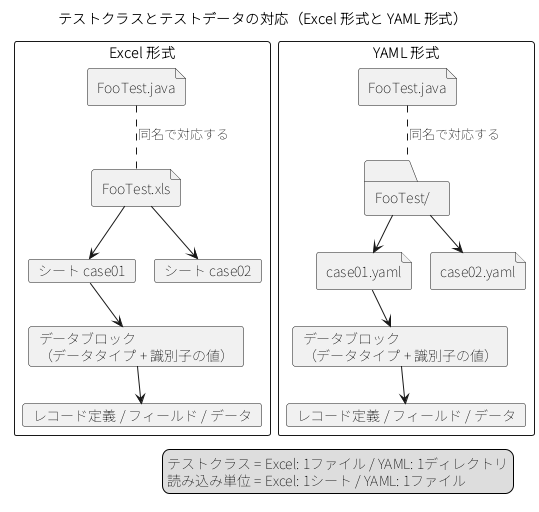
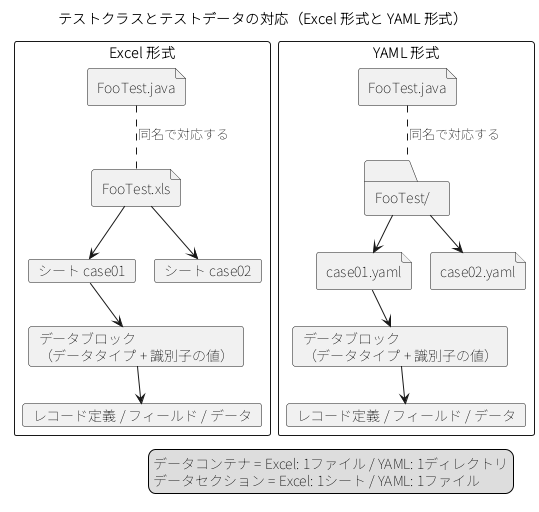
用語: 読み込み単位→データセクション、テストクラスに対応するファイル／ディレクトリ→データコンテナ。〈テストデータの書き方〉冒頭で3階層を定義し、各所の形式別の括弧書きを削除

Changed region(s): [[0.2672, 0.875, 0.6234, 0.9688], [0.6827, 0.9062, 0.8905, 0.9688]]

diff --git a/ja/development_tools/testing_framework/implementation/testdata_notation.rst b/ja/development_tools/testing_framework/implementation/testdata_notation.rst
@@ -17,7 +17,31 @@
 
 テストデータの構造
 --------------------------------------------------
-テストデータは、テストクラス・読み込み単位・データブロックという階層で構成する。ここでは、テストクラスとテストデータの対応、読み込み単位の中に共存するデータブロックとその用途を示すデータタイプ、同じデータタイプのデータブロックを複数置く場合に使うグループIDについて説明する。
+テストデータは、データコンテナ・データセクション・データブロックという階層で構成する。
+
+.. list-table::
+  :class: white-space-normal
+  :header-rows: 1
+  :widths: 16,40,22,22
+
+  * - 階層
+    - 意味
+    - Excel形式
+    - YAML形式
+  * - データコンテナ
+    - テストクラス1つ分のテストデータ全体。テストクラスと同じ名前にする
+    - 1つのExcelファイル
+    - 1つのディレクトリ
+  * - データセクション
+    - 分割して読み込む単位。テストコードからは名前で指定する
+    - 1シート。名前はシート名
+    - 1つのYAMLファイル。名前は拡張子を除いたファイル名
+  * - データブロック
+    - 1用途分のデータのまとまり。データタイプと識別子の値で識別する
+    - データタイプで始まる矩形範囲
+    - トップレベルキーの下の1エントリ
+
+ここでは、テストクラスとテストデータの対応、データセクションの中に共存するデータブロックとその用途を示すデータタイプ、同じデータタイプのデータブロックを複数置く場合に使うグループIDについて説明する。
 
 .. _testdata_notation-file_structure:
 
@@ -25,7 +49,7 @@
 ~~~~~~~~~~~~~~~~~~~~~~~~~~~~~~~~~~~~~~~~~~~~~~~~~
 データベースへの準備データやデータベース検索結果の比較などをJavaのソースコードで表現するよりも、表形式で記述したほうが可読性・編集のしやすさの点で有利であるため、テスティングフレームワークはこれらのデータをテストコードとは別のファイル（Excelファイルまたは\ YAML\ ファイル）に記述する方式を採用している。
 
-テストデータは、テストクラスと1対1で対応する。ファイルの配置と読み込み単位の対応は形式によって異なるため、\ Excel\ 形式と\ YAML\ 形式のそれぞれについて後述する。
+データコンテナは、テストクラスと1対1で対応する。ファイルの配置とデータコンテナ・データセクションの対応は形式によって異なるため、\ Excel\ 形式と\ YAML\ 形式のそれぞれについて後述する。
 
 .. image:: images/testdata_notation/testdata_layout.png
   :scale: 100
@@ -44,7 +68,7 @@
 
 .. rubric:: Excel形式の場合
 
-同名の1つのExcelファイル（\ ``.xls``\ または\ ``.xlsx``\ ）がテストクラスに対応し、1シートが読み込み単位に対応する。
+テストクラスと同名の1つのExcelファイル（\ ``.xls``\ または\ ``.xlsx``\ ）がデータコンテナに、1シートがデータセクションに対応する。
 
 ファイルは、テストコードと同じディレクトリに、テストコードと同じ名前にし、拡張子だけを変えて配置することを推奨する。テストクラス側でディレクトリ名やファイル名を明示的に指定しなくてもテストデータを読み込めるようにするためである。
 
@@ -77,7 +101,7 @@ Excelのセルの書式は、必ず文字列書式に統一しておく必要が
 
 .. rubric:: YAML形式の場合
 
-同名の1つのディレクトリがテストクラスに対応し、1つのYAMLファイルが読み込み単位に対応する。
+テストクラスと同名の1つのディレクトリがデータコンテナに、1つのYAMLファイルがデータセクションに対応する。
 
 YAMLファイルは\ YAML 1.2\ に準拠する。\ YAML 1.1\ との主な違いとして、\ ``yes``\ ・\ ``no``\ ・\ ``on``\ ・\ ``off``\ は真偽値ではなく文字列として扱われる点に注意する。\ YAML\ テストデータには\ JSON Schema\ が定義されており、\ ``nablarch-testing-yaml``\ の\ jar\ に ``nablarch/test/ntf-testdata-yaml-schema.json`` として同梱されている。パース時には、このスキーマでの検証が行われる。
 
@@ -91,7 +115,7 @@ YAMLファイルでは、\ ``rows:``\ 内の全てのデータ値を必ずダブ
 
 データブロックとデータタイプ
 ~~~~~~~~~~~~~~~~~~~~~~~~~~~~~~~~~~~~~~~~~~~~~~~~~
-1つの読み込み単位（\ Excel\ の1シート、\ YAML\ の1ファイル）の中には、テストショット・準備データ・期待値という3つの用途のデータが、データブロック単位で共存する。
+1つのデータセクションの中には、テストショット・準備データ・期待値という3つの用途のデータが、データブロック単位で共存する。
 
 .. list-table::
   :class: white-space-normal
@@ -111,7 +135,7 @@ YAMLファイルでは、\ ``rows:``\ 内の全てのデータ値を必ずダブ
     - テスト実行後に確認する状態（データベース・出力ファイル・電文・検索結果など）
     - ``EXPECTED_*``\ ・\ ``RESPONSE_*``\ など
 
-テストクラス1つ分のデータが読み込み単位に分かれ、その中に複数のデータブロックが共存するという格納階層は、\ :ref:`テストクラスとテストデータの対応 <testdata_notation-file_structure>`\ の図のとおりである。
+データコンテナがデータセクションに分かれ、その中に複数のデータブロックが共存するという格納階層は、\ :ref:`テストクラスとテストデータの対応 <testdata_notation-file_structure>`\ の図のとおりである。
 
 データタイプは、データブロックの用途を示す予約語であり、解析の起点になる。データタイプを軸に、グループID・テストショット一覧・ファイルデータ・メッセージングの各記法が結び付く。セル値やエントリ値の解釈規則のうち、特殊記法とコメントは全データタイプに横断的にかかり、マーカーカラムはカラム名の行を持つデータタイプ（テーブルデータと\ ``LIST_MAP``\ ）にかかる。
 
@@ -240,7 +264,7 @@ YAMLファイルでは、\ ``rows:``\ 内の全てのデータ値を必ずダブ
 
 グループIDによる使い分け
 ~~~~~~~~~~~~~~~~~~~~~~~~~~~~~~~~~~~~~~~~~~~~~~~~~
-同じ読み込み単位の中に、同じデータタイプのデータブロックを複数記述したい場合は、グループIDでそれらを区別する。テストショット一覧の各カラムでグループIDを参照することで、テストショットごとに異なる準備データ・期待値を使い分けられる。
+同じデータセクションの中に、同じデータタイプのデータブロックを複数記述したい場合は、グループIDでそれらを区別する。テストショット一覧の各カラムでグループIDを参照することで、テストショットごとに異なる準備データ・期待値を使い分けられる。
 
 グループIDの指定には、次の規則がある。
 
@@ -379,7 +403,7 @@ testShots本体を記述する
   * - ``no``
     - テストショット番号を1からの連番で記載する。空の場合はエラーになる
   * - ``description``
-    - そのテストショットの説明を記載する（旧名 ``case``\ も可）。両方とも未定義の場合はエラーになる。ウェブアプリケーションのリクエスト単体テストでは、出力される\ HTML\ ダンプのファイル名にも使用される。ファイル名は\ ``<読み込み単位の名前>_Shot<テストショット番号>_<descriptionの値>.html``\ である。ファイル名に使えない文字（改行や\ ``/``\ など）を含めたり、OSのファイル名の長さ上限を超えたりすると、テスト実行時に\ ``IOException``\ が発生する
+    - そのテストショットの説明を記載する（旧名 ``case``\ も可）。両方とも未定義の場合はエラーになる。ウェブアプリケーションのリクエスト単体テストでは、出力される\ HTML\ ダンプのファイル名にも使用される。ファイル名は\ ``<データセクション名>_Shot<テストショット番号>_<descriptionの値>.html``\ である。ファイル名に使えない文字（改行や\ ``/``\ など）を含めたり、OSのファイル名の長さ上限を超えたりすると、テスト実行時に\ ``IOException``\ が発生する
   * - ``expectedStatusCode``
     - 期待するステータスコードを記載する（ウェブアプリケーションでは\ HTTP\ ステータスコード）
 
@@ -436,7 +460,7 @@ testShots本体を記述する
 
 * リクエストパラメータは、\ ``requestParams``\ という\ ID\ の ``LIST_MAP``\ に記述する
 
-  ``requestParams``\ は ``testShots``\ のカラムではなく、読み込み単位内に置く予約\ ID\ を持つ ``LIST_MAP``\ である。送信する\ HTTP\ リクエストパラメータを、テストショット一覧と行単位で対応させて記載する。テストショット一覧の先頭行のテストショットには、リクエストパラメータ表の先頭行のデータが対応するというように、行の順序で結び付く。テストショットとの対応が分かりやすいよう、テストショット番号をマーカーカラム（後述）として記載するとよい。リクエストパラメータは必ず記載する必要がある。初期画面表示のリクエストなど、リクエストパラメータが存在しない場合でも、\ ``LIST_MAP=requestParams``\ には、テストショット番号の列だけを記載した列を用意し、テストショット数分の行を用意する。
+  ``requestParams``\ は ``testShots``\ のカラムではなく、データセクション内に置く予約\ ID\ を持つ ``LIST_MAP``\ である。送信する\ HTTP\ リクエストパラメータを、テストショット一覧と行単位で対応させて記載する。テストショット一覧の先頭行のテストショットには、リクエストパラメータ表の先頭行のデータが対応するというように、行の順序で結び付く。テストショットとの対応が分かりやすいよう、テストショット番号をマーカーカラム（後述）として記載するとよい。リクエストパラメータは必ず記載する必要がある。初期画面表示のリクエストなど、リクエストパラメータが存在しない場合でも、\ ``LIST_MAP=requestParams``\ には、テストショット番号の列だけを記載した列を用意し、テストショット数分の行を用意する。
 
 * 1つのキーに複数の値を送信する場合は、値をカンマ区切りで記述する
 
@@ -585,7 +609,7 @@ LIST_MAPのデータを記述する
 
 ここで扱うのは\ ``LIST_MAP``\ 自体の記法であり、取得方法と\ ID\ の解決規則を説明したうえで、\ Excel\ 形式・\ YAML\ 形式それぞれの書式を示す。このデータタイプを使うデータブロックのうち、テストショット一覧（\ ``testShots``\ ）のカラムについては、前述の\ :ref:`テストショット一覧（testShots）を記述する <testdata_notation-test_shots>`\ で処理方式ごとに説明している。
 
-以下のメソッドにより、読み込み単位の名前（\ Excel\ 形式ではシート名、\ YAML\ 形式ではファイル名）と\ ID\ を指定して\ List\ 形式または\ Map\ 形式でデータを取得できる。
+以下のメソッドにより、データセクション名と\ ID\ を指定して\ List\ 形式または\ Map\ 形式でデータを取得できる。
 
 - ``TestSupport#getListMap(String sheetName, String id)``
 - ``DbAccessTestSupport#getListMap(String sheetName, String id)``
@@ -618,7 +642,7 @@ LIST_MAPのデータを記述する
   second.put("expected", "鈴木一郎");
   list.add(second);
 
-``LIST_MAP``\ のID\ は完全一致で検索される。同一の読み込み単位内に同じ\ ID\ のデータブロックが複数ある場合は先着一致となり、2件目以降は無視される。この\ ID\ 解決規則は、\ ThreadContext\ に設定する値やログ検証データなど、\ ``testShots``\ 以外の用途でも共通である。例えば、\ ``ThreadContext``\ に設定する値（\ ``USER_ID``\ ・\ ``REQUEST_ID``\ ・\ ``LANG``\ など）や、期待するユーザ情報（漢字氏名・カナ氏名・メールアドレスなど）を保持する用途にも、同じ ``LIST_MAP``\ の書式を使う。
+``LIST_MAP``\ のID\ は完全一致で検索される。同一のデータセクション内に同じ\ ID\ のデータブロックが複数ある場合は先着一致となり、2件目以降は無視される。この\ ID\ 解決規則は、\ ThreadContext\ に設定する値やログ検証データなど、\ ``testShots``\ 以外の用途でも共通である。例えば、\ ``ThreadContext``\ に設定する値（\ ``USER_ID``\ ・\ ``REQUEST_ID``\ ・\ ``LANG``\ など）や、期待するユーザ情報（漢字氏名・カナ氏名・メールアドレスなど）を保持する用途にも、同じ ``LIST_MAP``\ の書式を使う。
 
 実際の記述例は :ref:`LIST_MAPのデータを記述する <testdata_examples-list_map>` を参照。
 
@@ -666,9 +690,9 @@ LIST_MAPのデータを記述する
 
 共通の準備データをまとめる
 ^^^^^^^^^^^^^^^^^^^^^^^^^^^^^^^^^^^^^^^^^^^^^^^^^
-テストクラス全体で共通する準備データは、\ ``setUpDb``\ という名前の読み込み単位（\ Excel\ 形式では ``setUpDb`` という名前のシート、\ YAML\ 形式ではテストクラスに対応するディレクトリ配下の ``setUpDb.yaml`` というファイル）にまとめて記載する。ここに記載した ``SETUP_TABLE`` は、テストメソッドの実行ごとに1回、最初のテストショットを実行する前に投入される。\ Nablarch\ バッチアプリケーション・メッセージングでは、テストを実行するメソッドの第2引数に\ ``true``\ を指定すると、テストショットごとに投入し直すこともできる。1つの読み込み単位に複数の ``SETUP_TABLE`` を記述することもでき、実行時にはその読み込み単位内の全ての ``SETUP_TABLE`` が登録対象になる。
+テストクラス全体で共通する準備データは、\ ``setUpDb``\ という名前のデータセクションにまとめて記載する。ここに記載した ``SETUP_TABLE`` は、テストメソッドの実行ごとに1回、最初のテストショットを実行する前に投入される。\ Nablarch\ バッチアプリケーション・メッセージングでは、テストを実行するメソッドの第2引数に\ ``true``\ を指定すると、テストショットごとに投入し直すこともできる。1つのデータセクションに複数の ``SETUP_TABLE`` を記述することもでき、実行時にはそのデータセクション内の全ての ``SETUP_TABLE`` が登録対象になる。
 
-テストショットごとに異なる準備データは、\ ``setUpDb``\ ではなくテストメソッドの読み込み単位に ``SETUP_TABLE`` を記述し、テストショット一覧の ``setUpTable`` カラムでそのグループIDを指定する（\ :ref:`グループIDによる使い分け <testdata_notation-group_id>`\ 参照）。こちらは、\ ``setUpDb``\ の投入後にテストショットごとに投入される。\ ``SETUP_TABLE``\ は対象テーブルを全件\ DELETE\ してから\ INSERT\ するため、同じテーブルを両方に記述すると、そのテーブルはテストショット側の準備データだけになる。
+テストショットごとに異なる準備データは、\ ``setUpDb``\ ではなくテストメソッドのデータセクションに ``SETUP_TABLE`` を記述し、テストショット一覧の ``setUpTable`` カラムでそのグループIDを指定する（\ :ref:`グループIDによる使い分け <testdata_notation-group_id>`\ 参照）。こちらは、\ ``setUpDb``\ の投入後にテストショットごとに投入される。\ ``SETUP_TABLE``\ は対象テーブルを全件\ DELETE\ してから\ INSERT\ するため、同じテーブルを両方に記述すると、そのテーブルはテストショット側の準備データだけになる。
 
 期待値（EXPECTED_TABLE等）を記述する
 ^^^^^^^^^^^^^^^^^^^^^^^^^^^^^^^^^^^^^^^^^^^^^^^^^
@@ -682,7 +706,7 @@ LIST_MAPのデータを記述する
 
   主キーの値が自動採番（\ IDENTITY\ ・シーケンスなど）で決まる場合、テスト実行時に払い出される値が不定になるため、期待側に主キー値を書けない。シーケンスオブジェクトによる採番は、テスト用のコンポーネント設定ファイルでテーブル採番に置き換えると、テスト実行時の値を既知にできる（\ :ref:`システム日時と採番の固定 <fixed_time_and_id>`\ 参照）。\ IDENTITY\ 列のようにデータベース側で採番され、置き換えられない場合は、\ ``EXPECTED_TABLE``\ ・\ ``EXPECTED_COMPLETE_TABLE``\ では検証できない。主キー以外のカラムをテストコードで\ SELECT\ し、その結果を\ ``assertSqlResultSetEquals``\ で\ :ref:`LIST_MAP <testdata_notation-list_map>`\ の期待値と比較する（\ :ref:`コンポーネント単体テスト <component_unit_test>`\ ・\ :ref:`リクエスト単体テスト（ウェブアプリケーション） <request_unit_test_web>`\ 参照）。
 
-比較実行時のレコードの順序は、主キーを突合して比較されるため意識する必要はない。1つの読み込み単位に複数の ``EXPECTED_TABLE`` を記述することもでき、実行時には全て比較される。\ ``java.sql.Timestamp``\ 型カラムの期待値のフォーマットは ``"yyyy-mm-dd hh:mm:ss.fffffffff"``\ （\ f\ はナノ秒9桁）であり、ナノ秒が設定されていない場合でも0ナノ秒として表示されるため、期待値には末尾に小数点とゼロを付与しておく必要がある（例: ``2010-01-01 12:34:56.0``\ ）。
+比較実行時のレコードの順序は、主キーを突合して比較されるため意識する必要はない。1つのデータセクションに複数の ``EXPECTED_TABLE`` を記述することもでき、実行時には全て比較される。\ ``java.sql.Timestamp``\ 型カラムの期待値のフォーマットは ``"yyyy-mm-dd hh:mm:ss.fffffffff"``\ （\ f\ はナノ秒9桁）であり、ナノ秒が設定されていない場合でも0ナノ秒として表示されるため、期待値には末尾に小数点とゼロを付与しておく必要がある（例: ``2010-01-01 12:34:56.0``\ ）。
 
 .. _testdata_notation-column_omission:
 
@@ -1211,10 +1235,10 @@ null\ 値・空文字は、以下のように記述する。
     - 記述する場所
   * - メッセージング受信のテスト（リクエスト単体テスト）
     - ``MESSAGE=setUpMessages``\ に要求電文、\ ``MESSAGE=expectedMessages``\ に応答電文の期待値を記述する。識別子の値は固定である
-    - テストクラスの読み込み単位
+    - テストクラスのデータセクション
   * - 同期応答メッセージ送信のテスト（リクエスト単体テスト）
     - 後述の4つのデータタイプ。識別子の値はリクエスト\ ID\ で、グループIDを付けて使い分ける
-    - テストクラスの読み込み単位
+    - テストクラスのデータセクション
   * - 同期応答メッセージ送信のテスト（取引単体テストのモックアップクラス）
     - 同じ4つのデータタイプ。識別子の値はリクエスト\ ID\ で、グループIDは持たない
     - コンポーネント設定ファイルの ``sendSyncTestData``\ キーに設定したベースディレクトリの配下。\ Excel\ 形式ではリクエスト\ ID\ と同じ名前のファイルの ``message``\ シート、\ YAML\ 形式ではリクエスト\ ID\ と同じ名前のディレクトリ配下の ``message.yaml``\ （\ ``message``\ は固定の名前）
@@ -1346,7 +1370,7 @@ null\ 値・空文字は、以下のように記述する。
 
 JSON\ ・\ XML\ データ形式を使用する場合は、次の3点が必要になる。
 
-* 1つの読み込み単位に1テストショットのみ記述する
+* 1つのデータセクションに1テストショットのみ記述する
 
   メッセージボディについて、各行の文字列長が同一であることを期待するというテスティングフレームワークの制約によるものであり、要求電文の長さがリクエストごとに異なるのが一般的な\ JSON\ ・\ XML\ 形式では、事実上1テストショットしか記述できない。
 
@@ -1362,9 +1386,9 @@ JSON\ ・\ XML\ データ形式を使用する場合は、次の3点が必要に
 ^^^^^^^^^^^^^^^^^^^^^^^^^^^^^^^^^^^^^^^^^^^^^^^^^^^^^^^^^^^^^^^^^^^^^^^^^^^^^^^^^^^^^^^^^^^^^^^^^^^^
 取引単体テストのモックアップクラスが読む電文は、次の点がリクエスト単体テストと異なる。
 
-* 電文のフォーマットとデータを、\ ``message``\ という固定名の読み込み単位にまとめて定義する
+* 電文のフォーマットとデータを、\ ``message``\ という固定名のデータセクションにまとめて定義する
 
-  置き場所は、前述のとおり ``sendSyncTestData``\ キーに設定したベースディレクトリの配下である。\ ``sendSyncTestData``\ はデータブロックの識別子ではない。リクエスト単体テストでは、同期応答メッセージ送信のテストデータをテストクラス自身の読み込み単位に記述するため、\ ``sendSyncTestData``\ は使わない。
+  置き場所は、前述のとおり ``sendSyncTestData``\ キーに設定したベースディレクトリの配下である。\ ``sendSyncTestData``\ はデータブロックの識別子ではない。リクエスト単体テストでは、同期応答メッセージ送信のテストデータをテストクラスのデータコンテナ内のデータセクションに記述するため、\ ``sendSyncTestData``\ は使わない。
 
 * 識別子はグループIDを持たない
 

diff --git a/ja/development_tools/testing_framework/implementation/request_unit_test/web.rst b/ja/development_tools/testing_framework/implementation/request_unit_test/web.rst
@@ -129,16 +129,16 @@
 
 テストメソッドを作成する
 ~~~~~~~~~~~~~~~~~~~~~~~~~~~~~~~~~~~~~~~~~~~~~~~~~
-テストメソッドは、テストデータの読み込み単位（\ :ref:`テストクラスとテストデータの対応 <testdata_notation-file_structure>`\ 参照）と1対1で対応させて作成する。ここでは、テストメソッドの分割方針、テストを実行するメソッドの呼び出し、実行前後への固有処理の挿し込み、二重サブミット防止機能のトークンの設定、リクエストと実行コンテキストの組み立ての5つを説明する。
+テストメソッドは、データセクション（\ :ref:`テストクラスとテストデータの対応 <testdata_notation-file_structure>`\ 参照）と1対1で対応させて作成する。ここでは、テストメソッドの分割方針、テストを実行するメソッドの呼び出し、実行前後への固有処理の挿し込み、二重サブミット防止機能のトークンの設定、リクエストと実行コンテキストの組み立ての5つを説明する。
 
 テストメソッドを分割する
 ^^^^^^^^^^^^^^^^^^^^^^^^^^^^^^^^^^^^^^^^^^^^^^^^^
 作成するテストメソッドは、次の手順で決める。
 
 * リクエスト\ ID\ ごと（\ Action\ のメソッドごと）に、テストショットを正常系と異常系に分類し、それぞれテストメソッドを作成する。メニューからの単純な画面遷移のように異常系がない場合は、正常系のテストメソッドだけを作成する。
-* 画面表示の検証項目は、正常系と異常系のいずれかのテストメソッドに含められるかを検討する。1つの読み込み単位に正常系・異常系・画面表示の検証を混在させるとテストデータの記述が煩雑になる場合は、画面表示の検証用のテストメソッドを別に作成する。そうでない場合は、正常系または異常系のテストメソッドに含める。
+* 画面表示の検証項目は、正常系と異常系のいずれかのテストメソッドに含められるかを検討する。1つのデータセクションに正常系・異常系・画面表示の検証を混在させるとテストデータの記述が煩雑になる場合は、画面表示の検証用のテストメソッドを別に作成する。そうでない場合は、正常系または異常系のテストメソッドに含める。
 
-正常系・異常系・画面表示の検証用に分割した場合の例を次に示す。読み込み単位の名前は、既定ではテストメソッド名と同じにする（後述）。
+正常系・異常系・画面表示の検証用に分割した場合の例を次に示す。データセクション名は、既定ではテストメソッド名と同じにする（後述）。
 
 .. list-table::
   :class: white-space-normal
@@ -147,14 +147,14 @@
 
   * - リクエストID
     - Actionメソッド名
-    - テストメソッド名（＝読み込み単位の名前）
+    - テストメソッド名（＝データセクション名）
   * - ``USERS00101``
     - ``doUsers00101``
     - ``testUsers00101Normal``\ （正常系）・\ ``testUsers00101Abnormal``\ （異常系）・\ ``testUsers00101View``\ （画面表示の検証用）
 
 .. tip::
 
-  テストメソッドを分割するのは、1つの読み込み単位が煩雑になり可読性が下がることを避けるためである。この例以外でも、1つの読み込み単位にさまざまなテストショットを詰め込むと可読性が下がる場合は、読み込み単位を分割する。
+  テストメソッドを分割するのは、1つのデータセクションが煩雑になり可読性が下がることを避けるためである。この例以外でも、1つのデータセクションにさまざまなテストショットを詰め込むと可読性が下がる場合は、データセクションを分割する。
 
 テストを実行するメソッドを呼び出す
 ^^^^^^^^^^^^^^^^^^^^^^^^^^^^^^^^^^^^^^^^^^^^^^^^^
@@ -167,7 +167,7 @@
       support.execute();
   }
 
-引数のない\ ``execute``\ は、テストメソッド名と同じ名前の読み込み単位を読み込む。読み込み単位の名前をテストメソッド名と変えたい場合は、読み込み単位の名前を引数に取るオーバーロードメソッドを呼び出す。
+引数のない\ ``execute``\ は、テストメソッド名と同じ名前のデータセクションを読み込む。データセクション名をテストメソッド名と変えたい場合は、データセクション名を引数に取るオーバーロードメソッドを呼び出す。
 
 .. code-block:: java
 
@@ -228,9 +228,9 @@
   * - メソッド
     - 取得できる値
   * - ``getTestCaseName()``
-    - テストショットを識別する名前（\ ``読み込み単位の名前_Shot番号_説明``\ ）。アサート失敗時のメッセージと\ HTML\ ダンプのファイル名に使用する
+    - テストショットを識別する名前（\ ``データセクション名_Shot番号_説明``\ ）。アサート失敗時のメッセージと\ HTML\ ダンプのファイル名に使用する
   * - ``getSheetName()``
-    - 読み込み単位の名前
+    - データセクション名
   * - ``getTestCaseNo()``
     - テストショット番号
   * - ``getHttpRequest()``
@@ -419,7 +419,7 @@
       support.execute(new BasicAdvice() {
           @Override
           public void afterExecute(TestCaseInfo testCaseInfo, ExecutionContext context) {
-              // 期待値をテストデータから取得する（読み込み単位はテストメソッド名と同じ）
+              // 期待値をテストデータから取得する（データセクションはテストメソッド名と同じ）
               List<Map<String, String>> expected =
                       support.getListMap(testCaseInfo.getSheetName(), "result_1");
               // テストの実行後のリクエストスコープから実際の値を取得する
@@ -449,7 +449,7 @@
 
 オブジェクトのプロパティを確認する
 ^^^^^^^^^^^^^^^^^^^^^^^^^^^^^^^^^^^^^^^^^^^^^^^^^
-リクエストスコープなどから取り出したオブジェクトのプロパティを確認する場合は、次のメソッドを使用する。エンティティや\ Form\ を1件だけ確認する場合は前述の\ ``assertEntity``\ でもよいが、配列やリストを確認する場合や、アサート失敗時のメッセージを指定したい場合はこちらを使用する。第1引数にはアサート失敗時のメッセージ、第2引数には読み込み単位の名前、第3引数には期待値の\ ID\ 、第4引数には確認対象を指定する。
+リクエストスコープなどから取り出したオブジェクトのプロパティを確認する場合は、次のメソッドを使用する。エンティティや\ Form\ を1件だけ確認する場合は前述の\ ``assertEntity``\ でもよいが、配列やリストを確認する場合や、アサート失敗時のメッセージを指定したい場合はこちらを使用する。第1引数にはアサート失敗時のメッセージ、第2引数にはデータセクション名、第3引数には期待値の\ ID\ 、第4引数には確認対象を指定する。
 
 .. code-block:: java
 
@@ -497,7 +497,7 @@
 
 ダウンロードファイルを確認する
 ^^^^^^^^^^^^^^^^^^^^^^^^^^^^^^^^^^^^^^^^^^^^^^^^^
-ダウンロードされたファイルは、\ HTML\ ダンプと同じディレクトリへ出力される。ファイル名は\ ``読み込み単位の名前_Shot番号_説明_ダウンロードされたファイル名``\ で、\ HTML\ ダンプのファイル名の拡張子を、ダウンロードされたファイル名に置き換えたものになる。
+ダウンロードされたファイルは、\ HTML\ ダンプと同じディレクトリへ出力される。ファイル名は\ ``データセクション名_Shot番号_説明_ダウンロードされたファイル名``\ で、\ HTML\ ダンプのファイル名の拡張子を、ダウンロードされたファイル名に置き換えたものになる。
 
 期待するファイルの内容はテストデータに記述し、\ :java:extdoc:`FileSupport <nablarch.test.core.file.FileSupport>`\ の\ ``assertFile``\ で確認する。ファイルのデータブロックの記述方法は\ :ref:`ファイルのデータを記述する <testdata_notation-file_data>`\ を参照。
 
@@ -534,7 +534,7 @@ HTMLダンプを目視で確認する
 .. image:: images/web/html_dump_layout.png
   :scale: 100
 
-ダンプディレクトリの配下にはテストクラスごとのディレクトリが作られ、その配下に\ ``読み込み単位の名前_Shot番号_説明.html``\ という名前で\ HTML\ ダンプが出力される。\ HTML\ ダンプが参照する\ HTML\ リソース（スタイルシートや画像など）も同じディレクトリへ出力されるため、このディレクトリを保存しておけば、どの環境でも同じように表示を確認できる。
+ダンプディレクトリの配下にはテストクラスごとのディレクトリが作られ、その配下に\ ``データセクション名_Shot番号_説明.html``\ という名前で\ HTML\ ダンプが出力される。\ HTML\ ダンプが参照する\ HTML\ リソース（スタイルシートや画像など）も同じディレクトリへ出力されるため、このディレクトリを保存しておけば、どの環境でも同じように表示を確認できる。
 
 ダンプディレクトリが既に存在する場合は、\ ``<ダンプディレクトリ名>_bk``\ という名前でバックアップされる。ダンプディレクトリの指定とバックアップの抑止は\ :ref:`リクエスト単体テストの設定（ウェブアプリケーション） <request_unit_test_setting_web>`\ を参照。
 

diff --git a/ja/development_tools/testing_framework/implementation/class_unit_test/component.rst b/ja/development_tools/testing_framework/implementation/class_unit_test/component.rst
@@ -138,7 +138,7 @@
       /** 従業員テーブルに登録されたレコードを全件取得できることを確認する。 */
       @Test
       void testSelectAll() {
-          // データベースに準備データを登録する（引数は読み込み単位の名前）
+          // データベースに準備データを登録する（引数はデータセクション名）
           support.setUpDb("testSelectAll");
 
           // テスト対象メソッドを起動する
@@ -150,7 +150,7 @@
       }
   }
 
-第1引数にはアサート失敗時のメッセージ、第2引数には読み込み単位の名前、第3引数には期待値の\ ID\ 、第4引数には検索結果を指定する。期待値は、第3引数の\ ID\ を持つ ``LIST_MAP``\ として、\ SELECT\ 文で指定したカラム名（別名を付けた場合は別名）をカラム名にして記述する（\ :ref:`LIST_MAPのデータを記述する <testdata_notation-list_map>`\ ）。
+第1引数にはアサート失敗時のメッセージ、第2引数にはデータセクション名、第3引数には期待値の\ ID\ 、第4引数には検索結果を指定する。期待値は、第3引数の\ ID\ を持つ ``LIST_MAP``\ として、\ SELECT\ 文で指定したカラム名（別名を付けた場合は別名）をカラム名にして記述する（\ :ref:`LIST_MAPのデータを記述する <testdata_notation-list_map>`\ ）。
 
 更新系のテストを作成する
 ^^^^^^^^^^^^^^^^^^^^^^^^^^^^^^^^^^^^^^^^^^^^^^^^^
@@ -204,7 +204,7 @@ ThreadContextに値を設定する
 
   @Test
   void testInsert() {
-      // ThreadContextに値を設定する（引数は読み込み単位の名前とID）
+      // ThreadContextに値を設定する（引数はデータセクション名とID）
       support.setThreadContextValues("testInsert", "threadContext");
 
       // 中略
@@ -270,7 +270,7 @@ ThreadContextに値を設定する
 
 テストショットごとにデータを使い分ける
 ^^^^^^^^^^^^^^^^^^^^^^^^^^^^^^^^^^^^^^^^^^^^^^^^^
-1つの読み込み単位に複数のテストショットのデータを混在させる場合は、グループ\ ID\ を引数に取るオーバーロードメソッドを呼び出す。指定したグループ\ ID\ のデータだけが処理の対象になる。
+1つのデータセクションに複数のテストショットのデータを混在させる場合は、グループ\ ID\ を引数に取るオーバーロードメソッドを呼び出す。指定したグループ\ ID\ のデータだけが処理の対象になる。
 
 .. code-block:: java
 
@@ -297,7 +297,7 @@ ThreadContextに値を設定する
 テストコードと別のディレクトリのテストデータを読み込む
 ^^^^^^^^^^^^^^^^^^^^^^^^^^^^^^^^^^^^^^^^^^^^^^^^^^^^^^^^^^^^
 
-テストコードと別のディレクトリにあるテストデータを読み込む場合は、\ :java:extdoc:`TestDataParser <nablarch.test.core.reader.TestDataParser>`\ の実装クラスをシステムリポジトリから取得して直接使用する。第1引数にディレクトリ、第2引数に\ ``<ファイル名>/<読み込み単位の名前>``\ 、第3引数にデータブロックのIDを指定する。\ Excel\ 形式では\ ``<ディレクトリ>/<ファイル名>.xls``\ （または\ ``.xlsx``\ ）の\ ``<読み込み単位の名前>``\ シートが、\ YAML\ 形式では\ ``<ディレクトリ>/<ファイル名>/<読み込み単位の名前>.yaml``\ が読み込まれる。
+テストコードと別のディレクトリにあるテストデータを読み込む場合は、\ :java:extdoc:`TestDataParser <nablarch.test.core.reader.TestDataParser>`\ の実装クラスをシステムリポジトリから取得して直接使用する。第1引数にディレクトリ、第2引数に\ ``<データコンテナ名>/<データセクション名>``\ 、第3引数にデータブロックのIDを指定する。\ Excel\ 形式では\ ``<ディレクトリ>/<データコンテナ名>.xls``\ （または\ ``.xlsx``\ ）の\ ``<データセクション名>``\ シートが、\ YAML\ 形式では\ ``<ディレクトリ>/<データコンテナ名>/<データセクション名>.yaml``\ が読み込まれる。
 
 .. code-block:: java
 

diff --git a/ja/development_tools/testing_framework/implementation/request_unit_test/mom.rst b/ja/development_tools/testing_framework/implementation/request_unit_test/mom.rst
@@ -143,13 +143,13 @@ MOM\ によるメッセージングのリクエスト単体テストは、テス
 
 テストメソッドを作成する
 ~~~~~~~~~~~~~~~~~~~~~~~~~~~~~~~~~~~~~~~~~~~~~~~~~
-メッセージ受信のテストでは、1テストクラスにつき1テストメソッド、1読み込み単位を原則とする。テストの内容が複雑であったりデータ量が多い場合は、メソッドや読み込み単位を分割してもよい。
+メッセージ受信のテストでは、1テストクラスにつき1テストメソッド、1データセクションを原則とする。テストの内容が複雑であったりデータ量が多い場合は、メソッドやデータセクションを分割してもよい。
 
 テストメソッドには\ ``@Test``\ を付与し、その中でサポートクラスの次のメソッドを呼び出す。
 
 * ``void execute(String sheetName)``
 
-引数には、読み込む読み込み単位の名前を渡す。読み込み単位の名前は、テストメソッド名と同じにする。テストメソッドとテストデータの対応が読み取りやすくなるためである。
+引数には、読み込むデータセクション名を渡す。データセクション名は、テストメソッド名と同じにする。テストメソッドとテストデータの対応が読み取りやすくなるためである。
 
 .. code-block:: java
 
@@ -168,7 +168,7 @@ MOM\ によるメッセージングのリクエスト単体テストは、テス
 
 メッセージ受信のテストでは、実行するテストショットを\ :ref:`テストショット一覧（testShots）を記述する <testdata_notation-test_shots>`\ に従って記述する。テストクラス全体で共通する準備データは、\ :ref:`共通の準備データをまとめる <testdata_notation-setupdb>`\ に従ってまとめる。
 
-同期応答メッセージ送信のテストデータも、テストクラスに対応する読み込み単位に記述する。要求電文の期待値と返却する応答電文は、テストショット一覧の\ ``expectedMessage``\ ・\ ``responseMessage``\ にグループ\ ID\ を記述することでテストショットと対応付ける（\ :ref:`テストショット一覧（testShots）を記述する <testdata_notation-test_shots>`\ ）。
+同期応答メッセージ送信のテストデータも、テストクラスのデータコンテナ内のデータセクションに記述する。要求電文の期待値と返却する応答電文は、テストショット一覧の\ ``expectedMessage``\ ・\ ``responseMessage``\ にグループ\ ID\ を記述することでテストショットと対応付ける（\ :ref:`テストショット一覧（testShots）を記述する <testdata_notation-test_shots>`\ ）。
 
 .. tip::
   パディングおよびバイナリデータの扱いは、固定長ファイルのテストデータと同じである。\ :ref:`ファイルのデータを記述する <testdata_notation-file_data>`\ を参照。

diff --git a/ja/development_tools/testing_framework/implementation/deal_unit_test/mom.rst b/ja/development_tools/testing_framework/implementation/deal_unit_test/mom.rst
@@ -76,7 +76,7 @@ MOM\ によるメッセージングの取引単体テストは、テスト対象
 ~~~~~~~~~~~~~~~~~~~~~~~~~~~~~~~~~~~~~~~~~~~~~~~~~
 メッセージを受信するアプリケーションを対象とする場合のテストデータは、\ :ref:`取引単体テスト（Nablarchバッチアプリケーション） <deal_unit_test_batch>`\ と同じ書き方である。
 
-モックアップクラスを使用する場合は、応答電文のフォーマットとデータを定義する。要求電文については、フォーマットのみ定義する。テストデータはリクエスト\ ID\ ごとに用意する。\ Excel\ 形式ではリクエスト\ ID\ と同じ名前のファイルの\ ``message``\ シート、\ YAML\ 形式ではリクエスト\ ID\ と同じ名前のディレクトリ配下の\ ``message.yaml``\ が読み込み単位になる（\ ``message``\ は固定の名前）。たとえばリクエスト\ ID\ が\ ``RM21AA0101``\ である場合、\ Excel\ 形式では\ ``RM21AA0101.xlsx``\ の\ ``message``\ シートに記述する。電文の記述方法は\ :ref:`メッセージングのデータを記述する <testdata_notation-messaging_data>`\ を、テストデータを置くディレクトリの設定は\ :ref:`同期応答メッセージ送信・HTTPメッセージ送信のテストデータの読み込みを設定する <deal_unit_test_setting_http_messaging-send_sync_test_data>`\ を参照。
+モックアップクラスを使用する場合は、応答電文のフォーマットとデータを定義する。要求電文については、フォーマットのみ定義する。テストデータはリクエスト\ ID\ ごとに用意する。リクエスト\ ID\ と同じ名前のデータコンテナの、\ ``message``\ という固定の名前のデータセクションが読み込まれる。たとえばリクエスト\ ID\ が\ ``RM21AA0101``\ である場合、\ Excel\ 形式では\ ``RM21AA0101.xlsx``\ の\ ``message``\ シートに記述する。電文の記述方法は\ :ref:`メッセージングのデータを記述する <testdata_notation-messaging_data>`\ を、テストデータを置くディレクトリの設定は\ :ref:`同期応答メッセージ送信・HTTPメッセージ送信のテストデータの読み込みを設定する <deal_unit_test_setting_http_messaging-send_sync_test_data>`\ を参照。
 
 モックアップクラスは、要求電文のフレームワーク制御ヘッダに\ ``requestId``\ という名前のフィールドがあることを前提に動作する。ここで扱うリクエスト\ ID\ の意味は\ :ref:`リクエスト単体テスト（MOMによるメッセージング） <request_unit_test_mom-request_id>`\ を参照。
 
